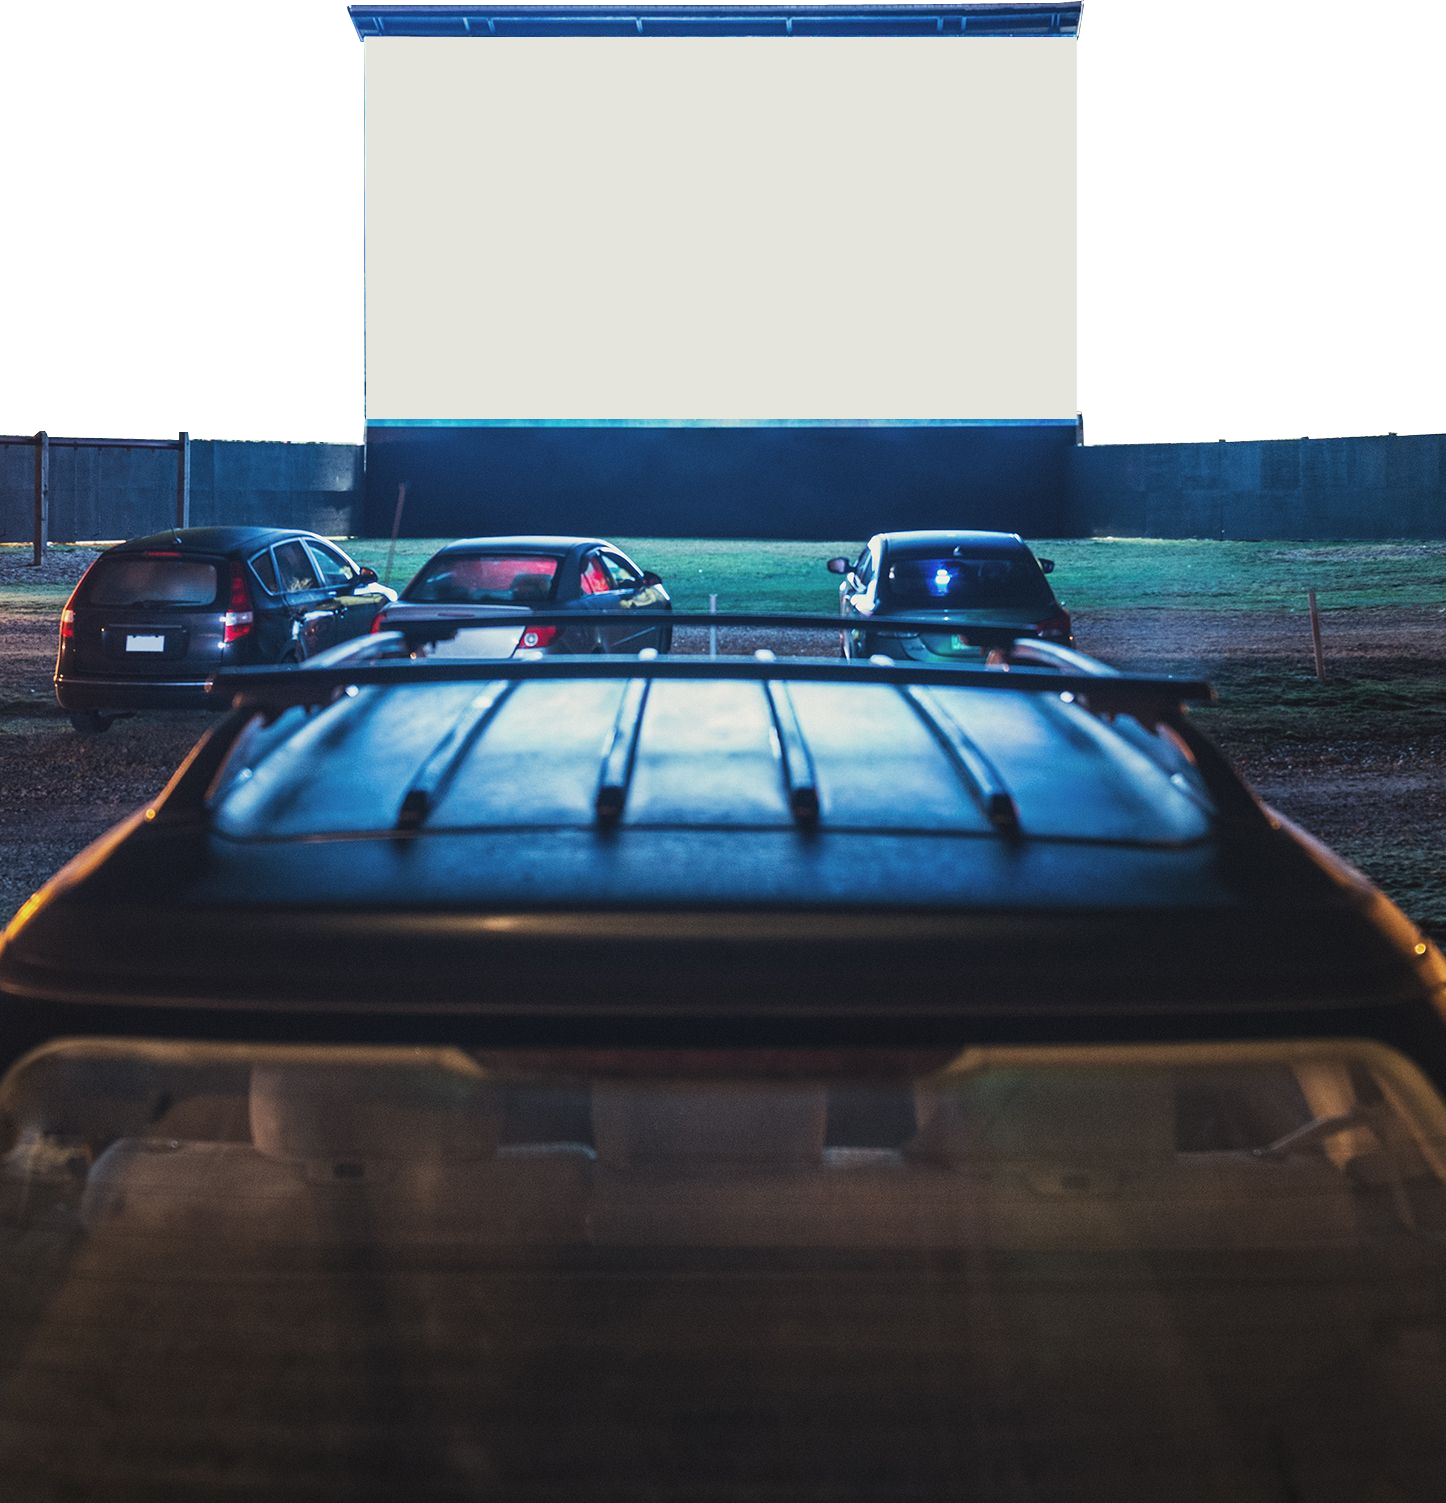
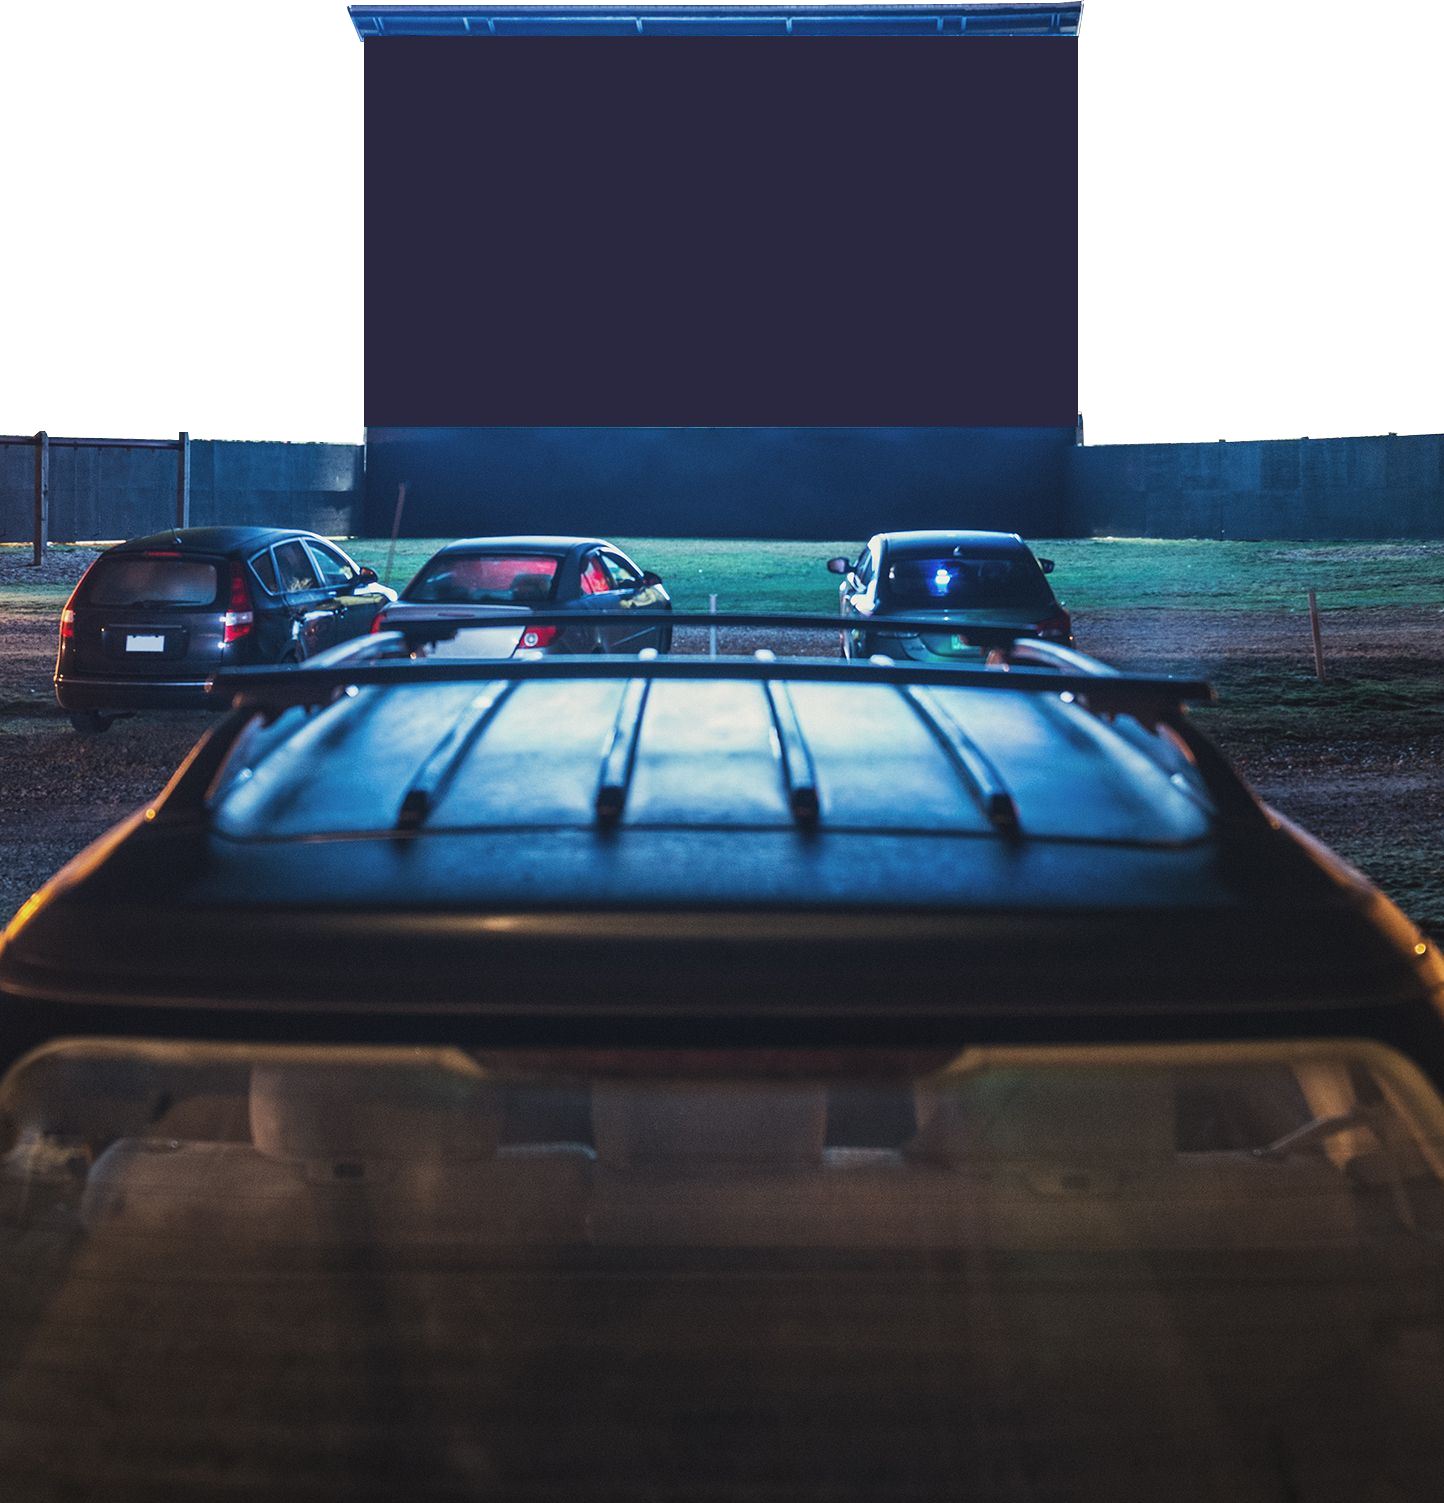
style(layout): final drive-in layout changes

diff --git a/Scenes/GameOver.js b/Scenes/GameOver.js
@@ -123,13 +123,14 @@ const styles = StyleSheet.create({
     top: 20,
     backgroundColor: "#292840",
     padding: 20,
-    width: "49%",
+    width: "49.1%",
     minWidth: 320,
-    aspectRatio: 16 / 9,
+    aspectRatio: 714 / 391,
     alignItems: "center",
     justifyContent: "center",
     alignSelf: "center",
     zIndex: 1000,
+    marginLeft: -2,
   },
   gameOverStyle: {
     fontSize: 28,
